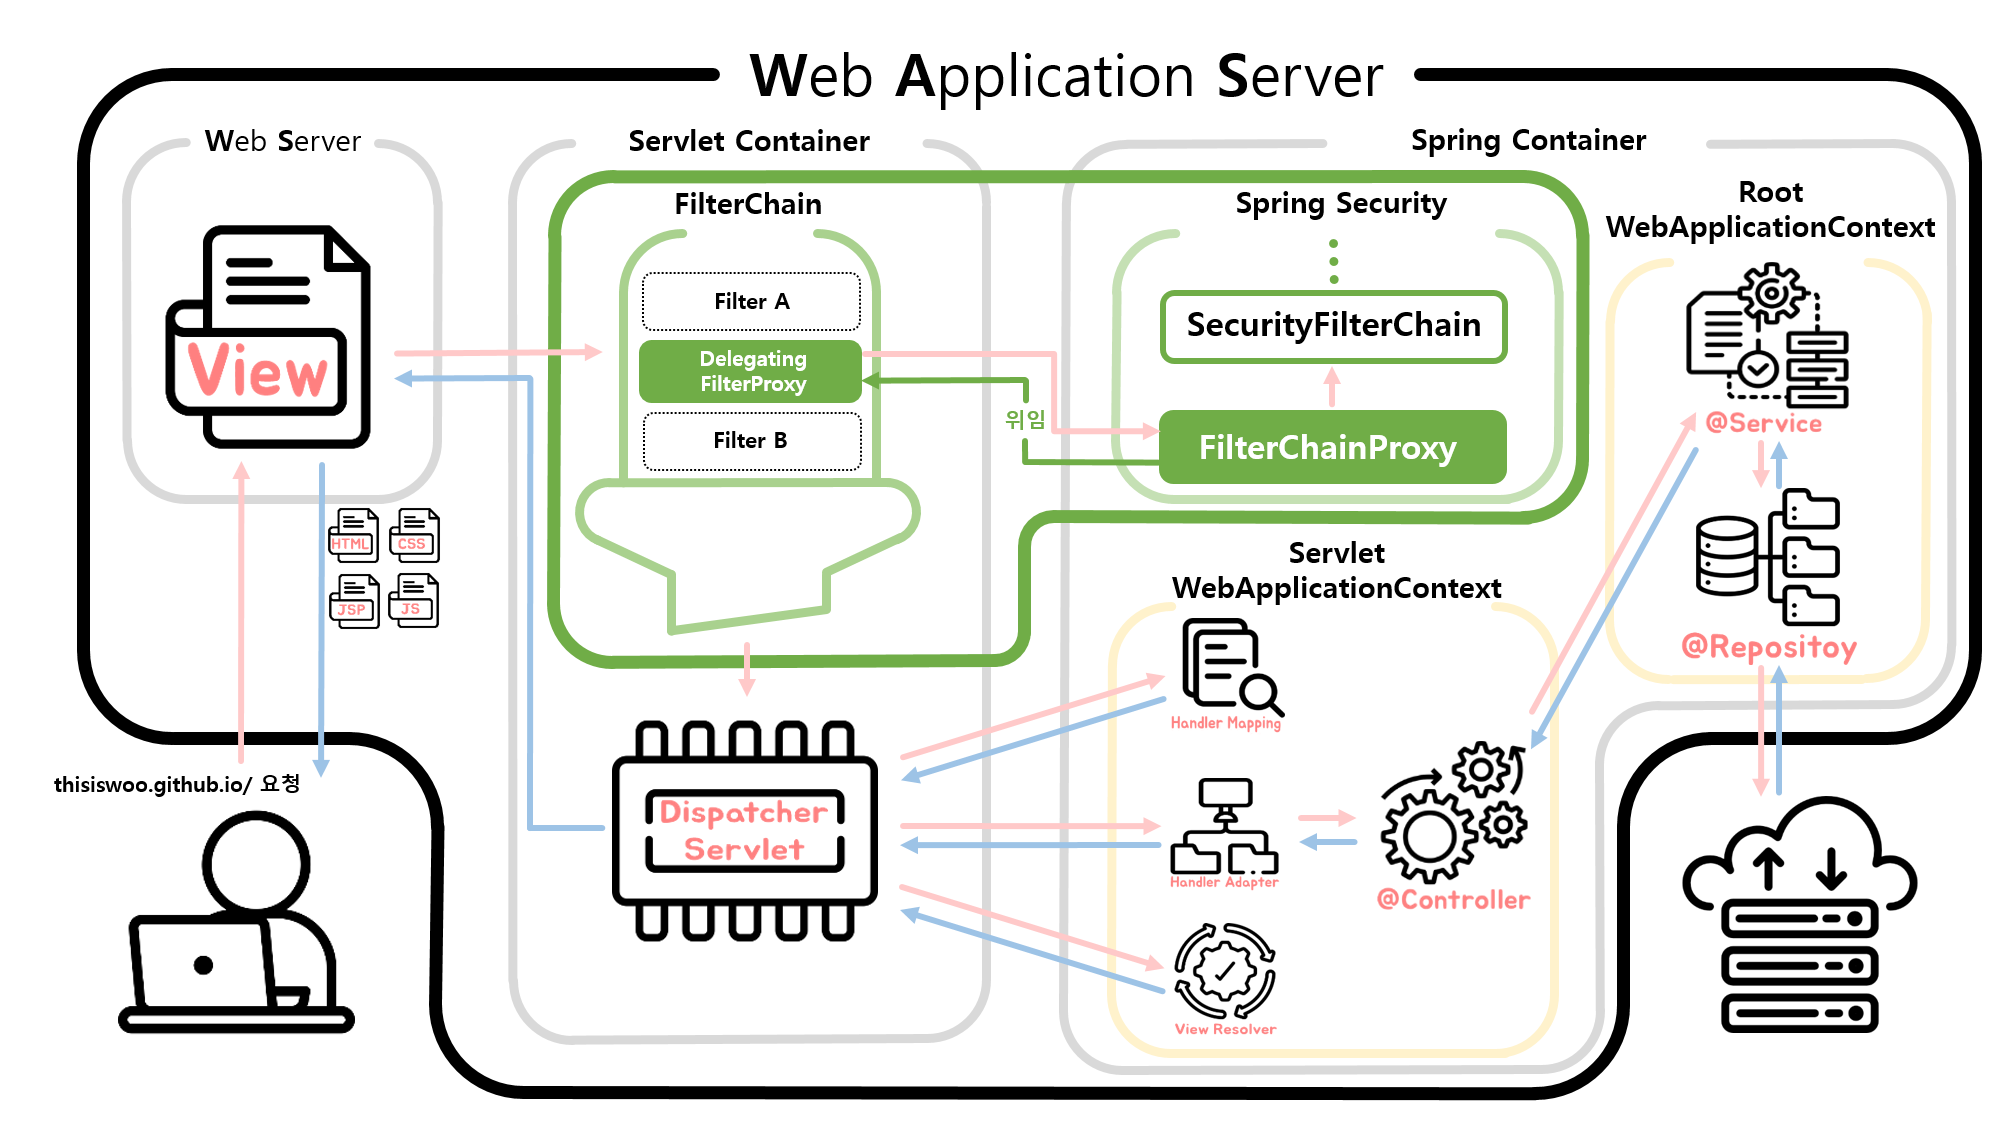
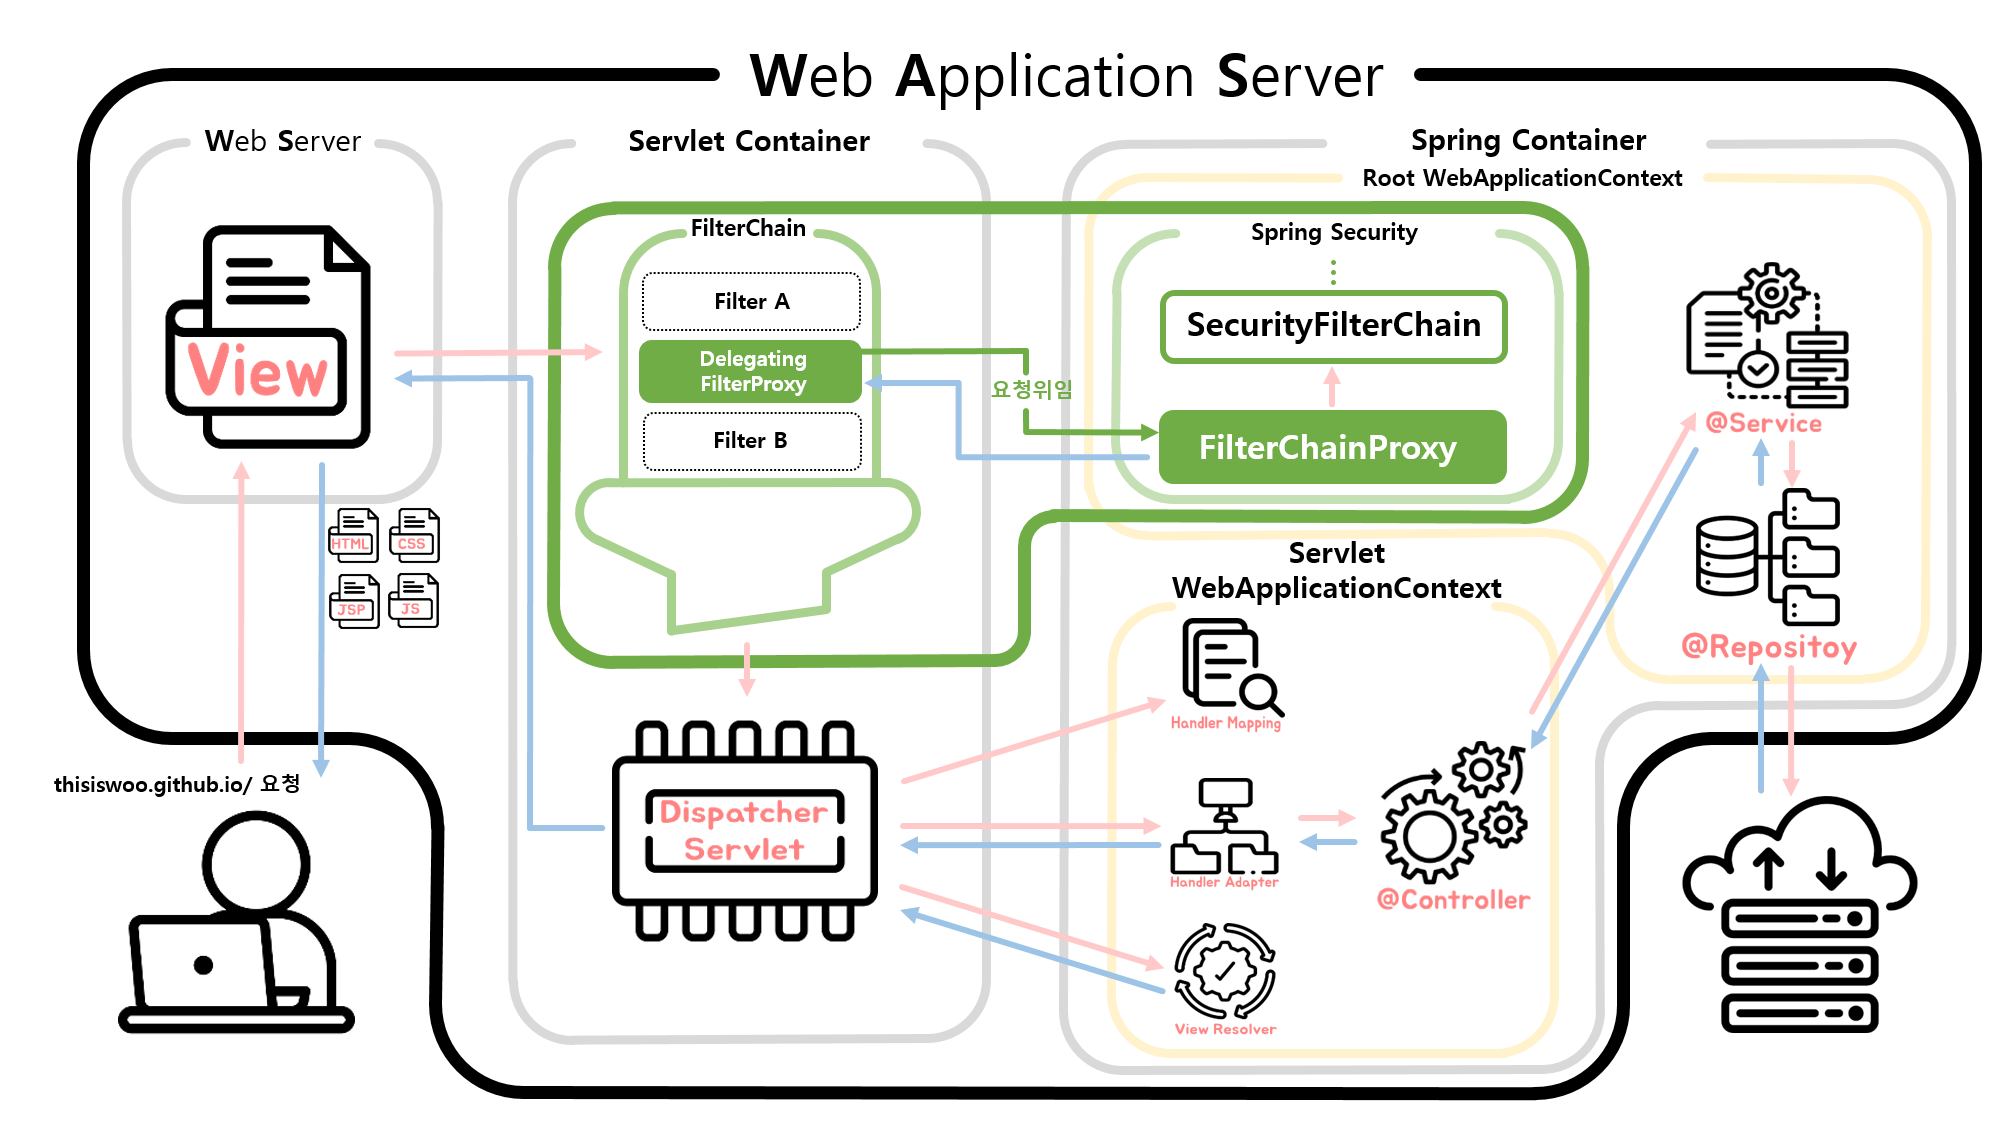
스프링시큐리티 동작과정 작업 중

diff --git a/_posts/development/server/2024-04-30-spring-security-process.md b/_posts/development/server/2024-04-30-spring-security-process.md
@@ -18,10 +18,22 @@ Spring Security 내부 동작 과정을 요약한 이미지
 {:.figcaption}
 
 ## Spring 요청 과정
-- 일반적으로 Client가 Server로 요청을 보내면, **DispatcherServlet** 이라는 서블릿이 하나의 **HttpServletRequest** 를 받아서 요청을 처리하고 응답을 Client로 보낸다.
+![](/assets/img/development/server/2024-04-30_spring_security_process/springmvc_architechture.png){:.centered width="100%"}
+Spring MVC 요약한 이미지
+{:.figcaption}
+
+- 위 그림처럼 일반적으로 `Client`가 `Server`로 요청을 보내면, **DispatcherServlet** 이라는 서블릿이 하나의 **HttpServletRequest** 를 받아서 요청을 처리하고 응답을 `Client`로 보낸다.
+
+[//]: # (Continue with [[Spring] Spring MVC]&#40;./2023-07-04-junit5-annotations-frequently-used.md&#41;{:.heading.flip-title})
+[//]: # ({:.read-more})
+
+## Spring Security 요청 과정
+![](/assets/img/development/server/2024-04-30_spring_security_process/springsecurity_architechture.png){:.centered width="100%"}
+Spring Security 내부 동작 과정을 요약한 이미지
+{:.figcaption}
+
 - 그런데, 하나 이상의 **Filter** 가 포함된다면, Client에서 보낸 요청이 서블릿으로 전달되기 전에 **Filter** 를 거치게 된다.
-- Client 가 Application 에 하나의 요청을 보내면, **ServletContainer** 는 하나의 **필터 체인(FilterChain)** 을 생성한다.
-- 
+- `Client` 가 `Application` 에 하나의 요청을 보내면, **ServletContainer** 는 하나의 **필터 체인(FilterChain)** 을 생성한다.
 
 
 
